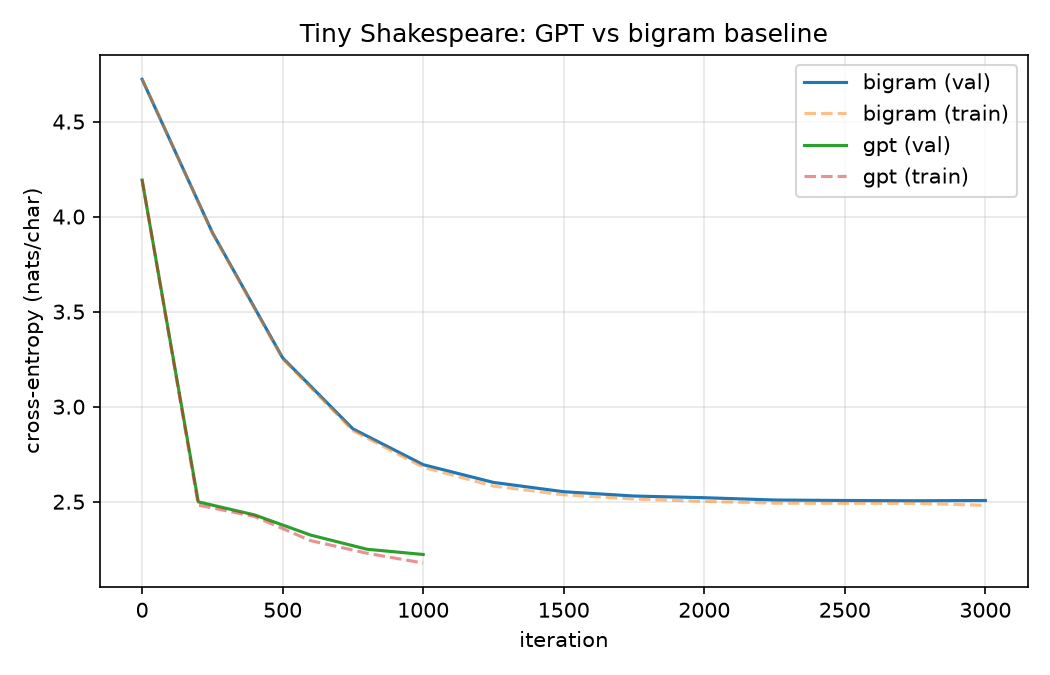
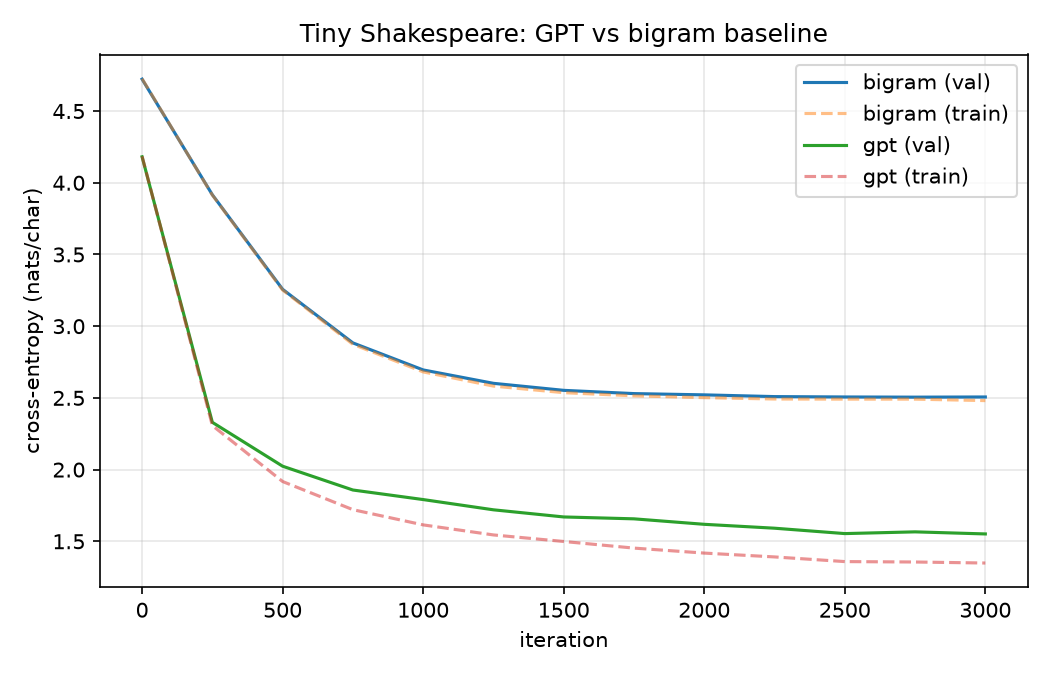
mini-gpt: a Transformer language model from scratch in PyTorch

diff --git a/README.md b/README.md
@@ -34,24 +34,41 @@ python train.py --model gpt --n_layer 6 --n_head 6 --n_embd 384 --block_size 256
 
 ## Results
 
-Measured on CPU with Tiny Shakespeare, seed 1337, and the settings shown below. The GPT run uses a
-smaller configuration and fewer evaluation batches than the bigram run to keep CPU training practical;
-the results are illustrative, not a controlled comparison of model size or training budget.
+Measured on CPU with Tiny Shakespeare, seed 1337, and matched training/evaluation budgets: both models
+ran for 3,000 iterations and used 50 batches per evaluation. The GPT used the default 4-layer, 4-head,
+128-dimensional configuration.
 
 | Model | Params | Val loss | Val perplexity | Train time (s) |
 |---|---|---|---|---|
 | bigram | 4,225 | 2.5063 | 12.26 | 12 |
-| gpt | 111,296 | 2.2223 | 9.23 | 98 |
+| gpt | 813,440 | 1.5514 | 4.72 | 2,998 |
 
 ![curves](results.png)
 
 ## Notes / what I learned
-- With the measured settings, GPT reduced validation loss by about 11% relative to the bigram baseline
-  (2.2223 vs. 2.5063) and validation perplexity from 12.26 to 9.23, at the cost of more training time.
-- The GPT benchmark used 2 layers, 2 heads, 64 embedding dimensions, batch size 16, 1,000 iterations,
-  and 10 batches per evaluation. The bigram baseline used the default batch size and 3,000 iterations.
-- Both runs used block size 128, dropout 0.1, and seed 1337. Training times are specific to this CPU
-  environment; use the larger configuration in Quickstart for a stronger GPT model, preferably on GPU.
+- At the same 3,000 training iterations and 50 evaluation batches, GPT lowered validation loss from
+  2.5063 to 1.5514 and perplexity from 12.26 to 4.72 compared with the context-free bigram baseline.
+- The GPT has 813,440 parameters versus 4,225 for bigram and took about 2,998 seconds on this CPU;
+  training time is hardware-dependent. Both runs used seed 1337, block size 128, and dropout 0.1.
+
+## Generated sample
+
+Sampled from the trained GPT checkpoint with temperature 0.8 and top-k 40:
+
+```text
+CAMILLO:
+My provereity, sir, one good could no man there;
+And I must not be could not him conjure
+To poor such his prayer speak of countent both
+Be speak on the nature of with me lies
+My move, and so fine any to the each.
+
+Second Murderer:
+Never for the lord.
+
+LADY ANNE:
+O, what she would I warrants, and let the partly?
+```
 
 ## Ideas to extend
 - Ablations: remove positional embeddings, vary heads/layers, swap in RoPE
